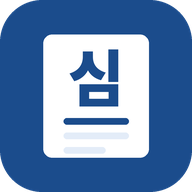
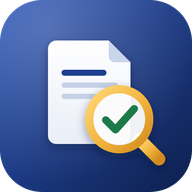
앱 아이콘 교체
Claude-Session: https://claude.ai/code/session_01YDckwLpRbQFTVvL4RaHcaj

diff --git a/sw.js b/sw.js
@@ -1,5 +1,5 @@
 // 코스닥 상장심사 사례집 - 오프라인 캐시
-const VERSION = 'ksc-2026-09-28-r2';
+const VERSION = 'ksc-2026-09-29-icon2';
 const CORE = ['./', './index.html', './manifest.webmanifest', './icons/icon-192.png', './icons/icon-512.png', './icons/maskable-512.png', './icons/apple-touch-icon.png'];
 
 self.addEventListener('install', e => {
